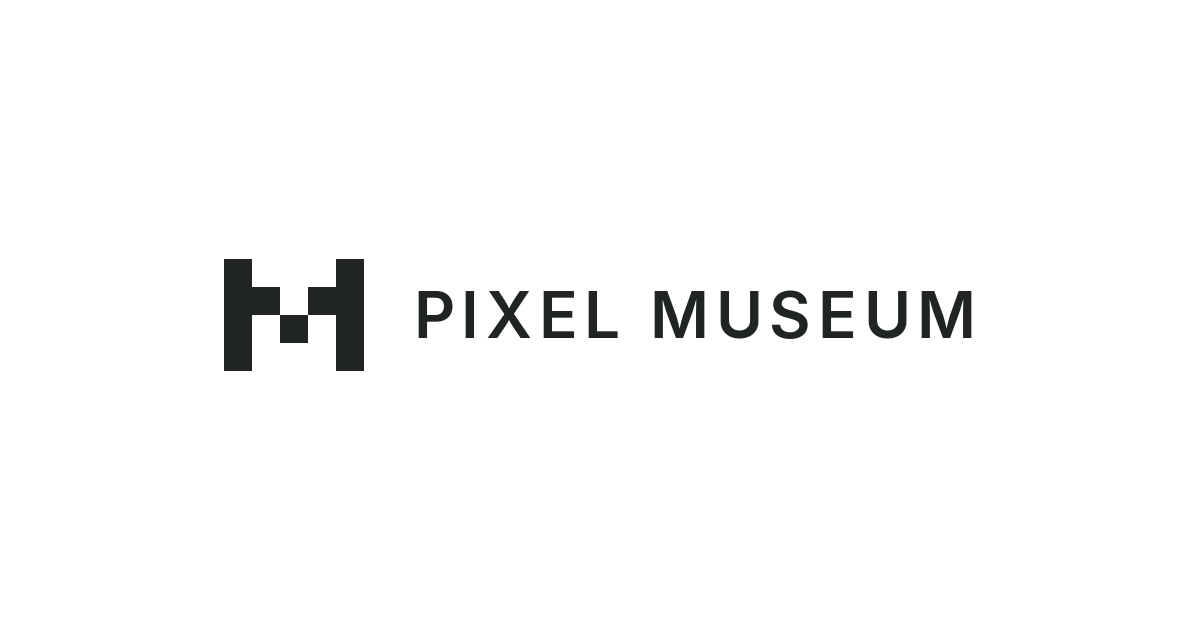
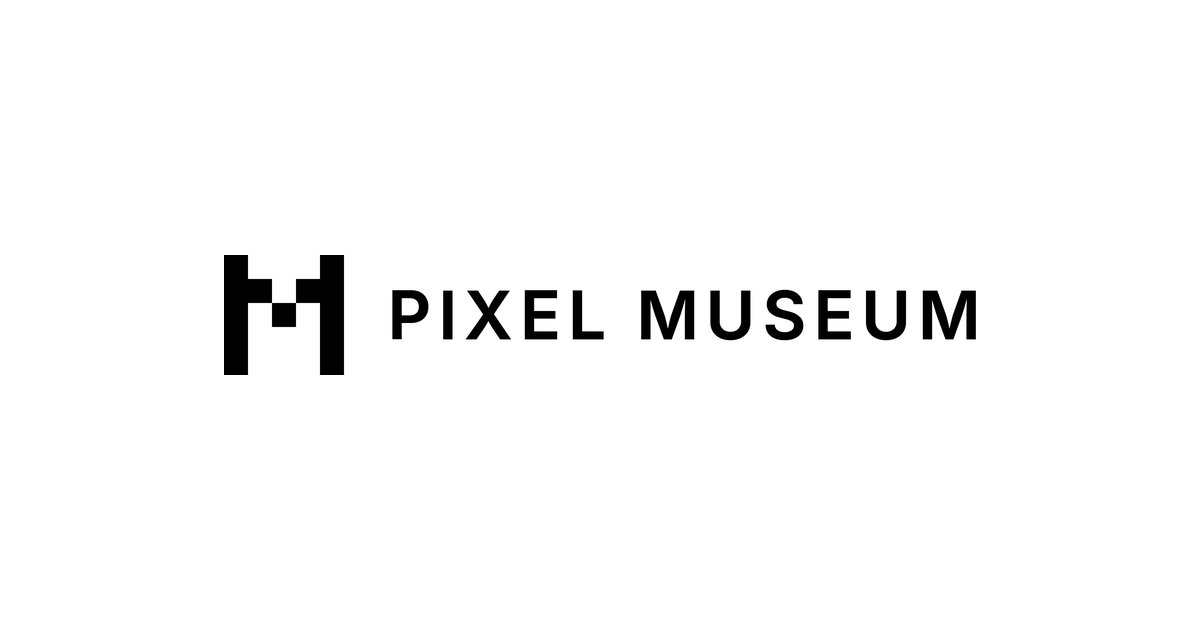
Unify website branding with corrected Pixel Museum mark

Changed region(s): [[0.185, 0.3921, 0.8325, 0.6032]]

diff --git a/docs/index.html b/docs/index.html
@@ -11,18 +11,18 @@
   <meta property="og:type" content="website">
   <meta property="og:site_name" content="Pixel Museum">
   <meta property="og:url" content="https://lozazamastro.github.io/Pixel-Museum/">
-  <meta property="og:image" content="https://lozazamastro.github.io/Pixel-Museum/assets/social-preview.png">
+  <meta property="og:image" content="https://lozazamastro.github.io/Pixel-Museum/assets/social-preview-v2.png">
   <meta property="og:image:width" content="1200">
   <meta property="og:image:height" content="630">
   <meta property="og:image:alt" content="The Pixel Museum M and wordmark on a white background">
   <meta name="twitter:card" content="summary_large_image">
   <meta name="twitter:title" content="Pixel Museum">
   <meta name="twitter:description" content="The games we played. The world we grew up in. An independent, interactive museum for PS5.">
-  <meta name="twitter:image" content="https://lozazamastro.github.io/Pixel-Museum/assets/social-preview.png">
+  <meta name="twitter:image" content="https://lozazamastro.github.io/Pixel-Museum/assets/social-preview-v2.png">
   <meta name="twitter:image:alt" content="The Pixel Museum M and wordmark on a white background">
   <link rel="canonical" href="https://lozazamastro.github.io/Pixel-Museum/">
   <meta name="color-scheme" content="light dark">
-  <link rel="icon" href="assets/mark.svg" type="image/svg+xml">
+  <link rel="icon" href="assets/mark.svg?v=2" type="image/svg+xml">
   <link rel="stylesheet" href="style.css">
   <link rel="stylesheet" href="footer-refinement.css">
   <script>try{document.documentElement.dataset.theme=localStorage.getItem("museum-theme")||"light"}catch{}</script>
@@ -32,19 +32,20 @@
   <a class="skip" href="#main">Skip to content</a>
   <header class="masthead wrap">
     <a class="brand" href="#" aria-label="Pixel Museum home"><svg xmlns="http://www.w3.org/2000/svg" viewBox="0 0 112 112" class="pixel-mark" width="32" height="32" aria-hidden="true">
-  
   <g fill="currentColor" class="brand-pixels">
-    <rect class="brand-pixel" data-pixel="0" x="16" y="24" width="16" height="16"/>
-    <rect class="brand-pixel" data-pixel="1" x="80" y="24" width="16" height="16"/>
-    <rect class="brand-pixel" data-pixel="2" x="16" y="40" width="16" height="16"/>
-    <rect class="brand-pixel" data-pixel="3" x="32" y="40" width="16" height="16"/>
-    <rect class="brand-pixel" data-pixel="4" x="64" y="40" width="16" height="16"/>
-    <rect class="brand-pixel" data-pixel="5" x="80" y="40" width="16" height="16"/>
-    <rect class="brand-pixel" data-pixel="6" x="16" y="56" width="16" height="16"/>
-    <rect class="brand-pixel" data-pixel="7" x="48" y="56" width="16" height="16"/>
-    <rect class="brand-pixel" data-pixel="8" x="80" y="56" width="16" height="16"/>
-    <rect class="brand-pixel" data-pixel="9" x="16" y="72" width="16" height="16"/>
-    <rect class="brand-pixel" data-pixel="10" x="80" y="72" width="16" height="16"/>
+    <rect class="brand-pixel" data-pixel="0" x="16" y="16" width="16" height="16"/>
+    <rect class="brand-pixel" data-pixel="1" x="80" y="16" width="16" height="16"/>
+    <rect class="brand-pixel" data-pixel="2" x="16" y="32" width="16" height="16"/>
+    <rect class="brand-pixel" data-pixel="3" x="32" y="32" width="16" height="16"/>
+    <rect class="brand-pixel" data-pixel="4" x="64" y="32" width="16" height="16"/>
+    <rect class="brand-pixel" data-pixel="5" x="80" y="32" width="16" height="16"/>
+    <rect class="brand-pixel" data-pixel="6" x="16" y="48" width="16" height="16"/>
+    <rect class="brand-pixel" data-pixel="7" x="48" y="48" width="16" height="16"/>
+    <rect class="brand-pixel" data-pixel="8" x="80" y="48" width="16" height="16"/>
+    <rect class="brand-pixel" data-pixel="9" x="16" y="64" width="16" height="16"/>
+    <rect class="brand-pixel" data-pixel="10" x="80" y="64" width="16" height="16"/>
+    <rect class="brand-pixel" data-pixel="11" x="16" y="80" width="16" height="16"/>
+    <rect class="brand-pixel" data-pixel="12" x="80" y="80" width="16" height="16"/>
   </g>
 </svg>
 <span>PIXEL MUSEUM</span></a>

diff --git a/website/index.html b/website/index.html
@@ -11,18 +11,18 @@
   <meta property="og:type" content="website">
   <meta property="og:site_name" content="Pixel Museum">
   <meta property="og:url" content="https://lozazamastro.github.io/Pixel-Museum/">
-  <meta property="og:image" content="https://lozazamastro.github.io/Pixel-Museum/assets/social-preview.png">
+  <meta property="og:image" content="https://lozazamastro.github.io/Pixel-Museum/assets/social-preview-v2.png">
   <meta property="og:image:width" content="1200">
   <meta property="og:image:height" content="630">
   <meta property="og:image:alt" content="The Pixel Museum M and wordmark on a white background">
   <meta name="twitter:card" content="summary_large_image">
   <meta name="twitter:title" content="Pixel Museum">
   <meta name="twitter:description" content="The games we played. The world we grew up in. An independent, interactive museum for PS5.">
-  <meta name="twitter:image" content="https://lozazamastro.github.io/Pixel-Museum/assets/social-preview.png">
+  <meta name="twitter:image" content="https://lozazamastro.github.io/Pixel-Museum/assets/social-preview-v2.png">
   <meta name="twitter:image:alt" content="The Pixel Museum M and wordmark on a white background">
   <link rel="canonical" href="https://lozazamastro.github.io/Pixel-Museum/">
   <meta name="color-scheme" content="light dark">
-  <link rel="icon" href="assets/mark.svg" type="image/svg+xml">
+  <link rel="icon" href="assets/mark.svg?v=2" type="image/svg+xml">
   <link rel="stylesheet" href="style.css">
   <link rel="stylesheet" href="footer-refinement.css">
   <script>try{document.documentElement.dataset.theme=localStorage.getItem("museum-theme")||"light"}catch{}</script>
@@ -32,19 +32,20 @@
   <a class="skip" href="#main">Skip to content</a>
   <header class="masthead wrap">
     <a class="brand" href="#" aria-label="Pixel Museum home"><svg xmlns="http://www.w3.org/2000/svg" viewBox="0 0 112 112" class="pixel-mark" width="32" height="32" aria-hidden="true">
-  
   <g fill="currentColor" class="brand-pixels">
-    <rect class="brand-pixel" data-pixel="0" x="16" y="24" width="16" height="16"/>
-    <rect class="brand-pixel" data-pixel="1" x="80" y="24" width="16" height="16"/>
-    <rect class="brand-pixel" data-pixel="2" x="16" y="40" width="16" height="16"/>
-    <rect class="brand-pixel" data-pixel="3" x="32" y="40" width="16" height="16"/>
-    <rect class="brand-pixel" data-pixel="4" x="64" y="40" width="16" height="16"/>
-    <rect class="brand-pixel" data-pixel="5" x="80" y="40" width="16" height="16"/>
-    <rect class="brand-pixel" data-pixel="6" x="16" y="56" width="16" height="16"/>
-    <rect class="brand-pixel" data-pixel="7" x="48" y="56" width="16" height="16"/>
-    <rect class="brand-pixel" data-pixel="8" x="80" y="56" width="16" height="16"/>
-    <rect class="brand-pixel" data-pixel="9" x="16" y="72" width="16" height="16"/>
-    <rect class="brand-pixel" data-pixel="10" x="80" y="72" width="16" height="16"/>
+    <rect class="brand-pixel" data-pixel="0" x="16" y="16" width="16" height="16"/>
+    <rect class="brand-pixel" data-pixel="1" x="80" y="16" width="16" height="16"/>
+    <rect class="brand-pixel" data-pixel="2" x="16" y="32" width="16" height="16"/>
+    <rect class="brand-pixel" data-pixel="3" x="32" y="32" width="16" height="16"/>
+    <rect class="brand-pixel" data-pixel="4" x="64" y="32" width="16" height="16"/>
+    <rect class="brand-pixel" data-pixel="5" x="80" y="32" width="16" height="16"/>
+    <rect class="brand-pixel" data-pixel="6" x="16" y="48" width="16" height="16"/>
+    <rect class="brand-pixel" data-pixel="7" x="48" y="48" width="16" height="16"/>
+    <rect class="brand-pixel" data-pixel="8" x="80" y="48" width="16" height="16"/>
+    <rect class="brand-pixel" data-pixel="9" x="16" y="64" width="16" height="16"/>
+    <rect class="brand-pixel" data-pixel="10" x="80" y="64" width="16" height="16"/>
+    <rect class="brand-pixel" data-pixel="11" x="16" y="80" width="16" height="16"/>
+    <rect class="brand-pixel" data-pixel="12" x="80" y="80" width="16" height="16"/>
   </g>
 </svg>
 <span>PIXEL MUSEUM</span></a>
